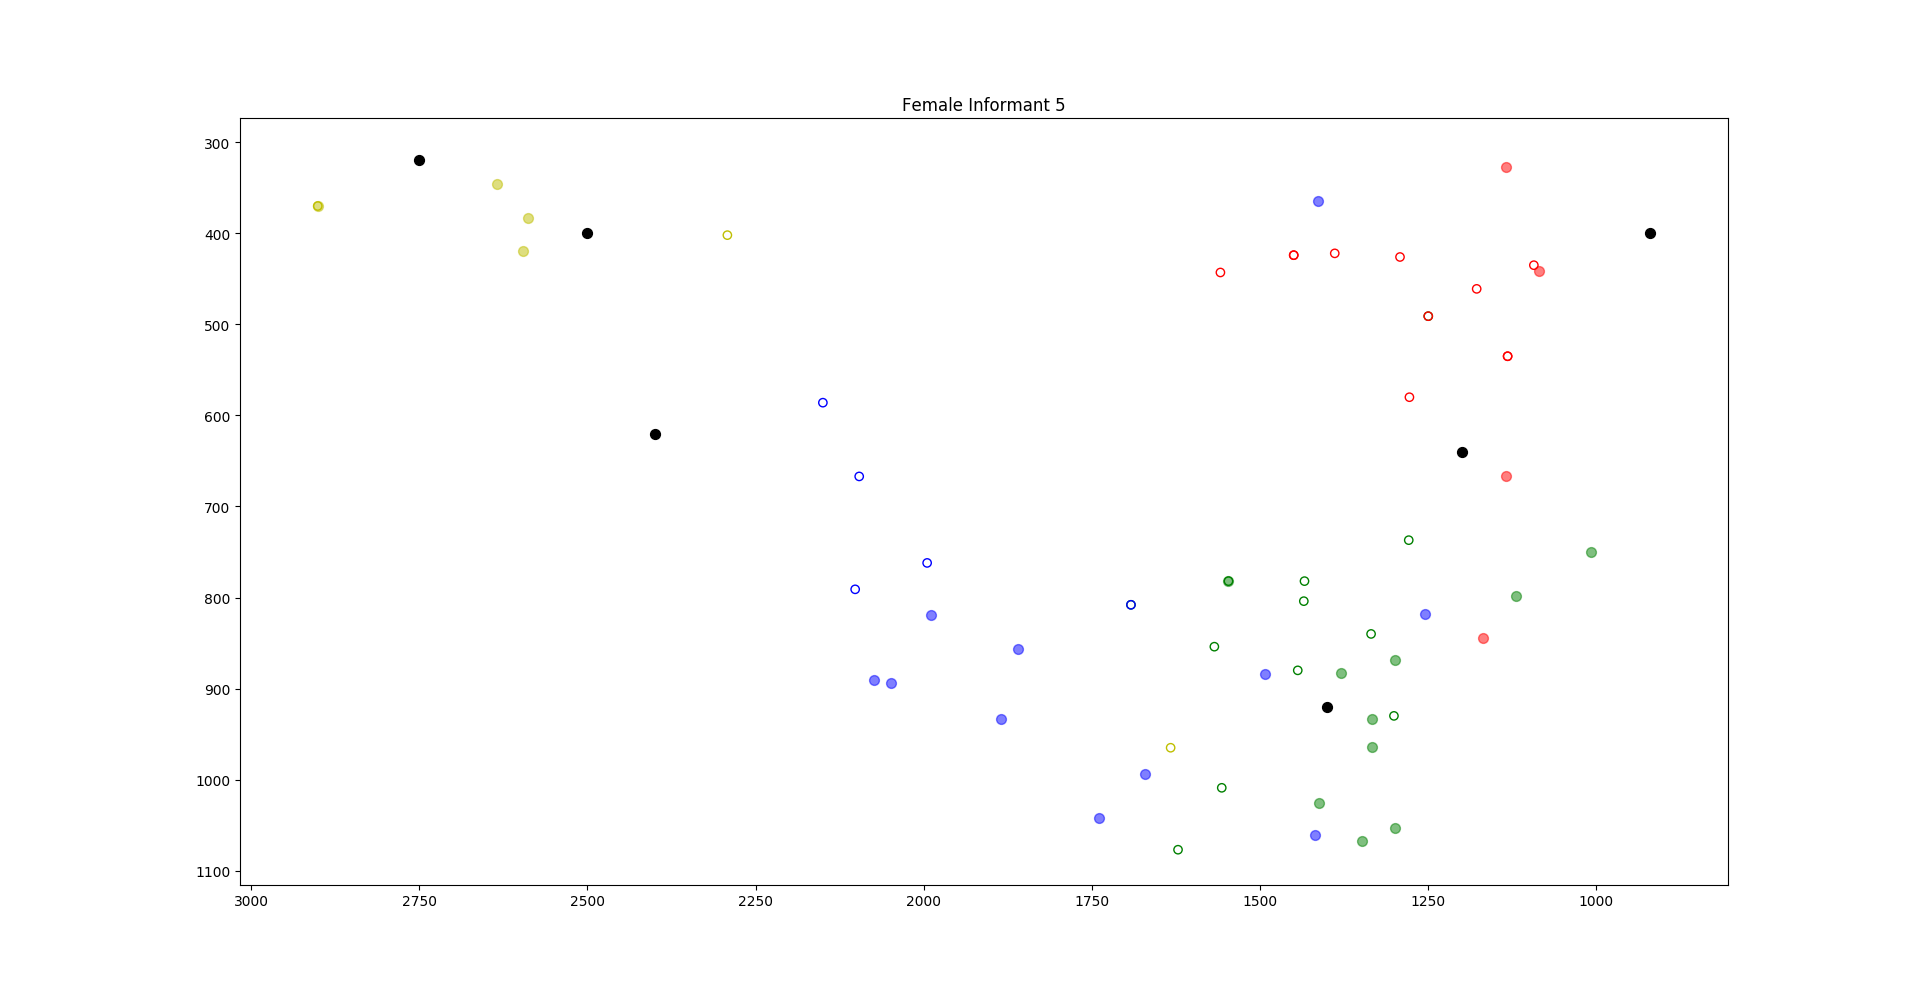
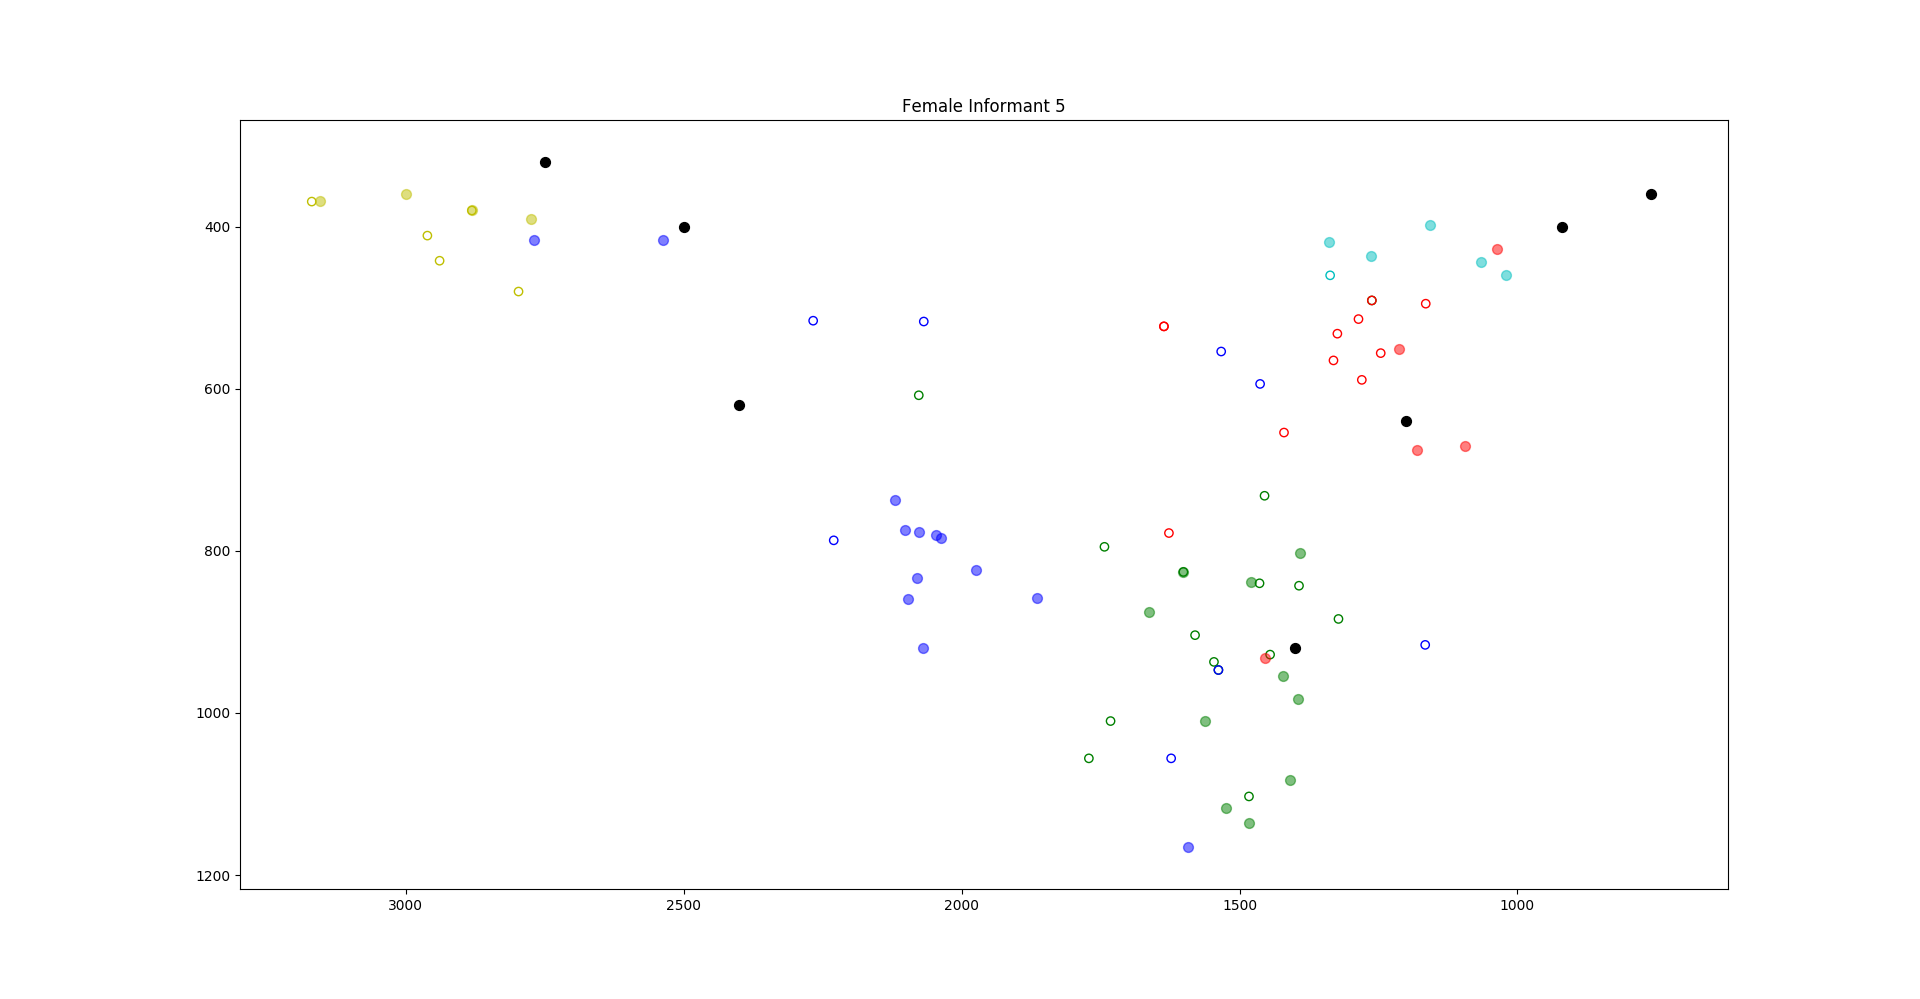
Add files via upload

diff --git a/Formants/Plots/finf3.py b/Formants/Plots/finf3.py
@@ -1,0 +1,67 @@
+from matplotlib import pyplot as plt
+import pandas as pd
+import numpy as np
+
+
+inf = pd.read_excel('finf3.xlsx')
+### This to make sure the file is correctly read ###
+print(inf)
+
+xo = [inf.ix[1, 'F1'], inf.ix[24, 'F1'], inf.ix[67, 'F1'], inf.ix[75, 'F1'], inf.ix[78, 'F1']]
+yo = [inf.ix[1, 'F2'], inf.ix[24, 'F2'], inf.ix[67, 'F2'], inf.ix[75, 'F2'], inf.ix[78, 'F2']]
+
+xa = [inf.ix[5, 'F1'], inf.ix[29, 'F1'], inf.ix[33, 'F1'], inf.ix[36, 'F1'], inf.ix[42, 'F1'], inf.ix[51, 'F1'], inf.ix[59, 'F1'], inf.ix[62, 'F1'], inf.ix[65, 'F1'], inf.ix[72, 'F1']]
+ya = [inf.ix[5, 'F2'], inf.ix[29, 'F2'], inf.ix[33, 'F2'], inf.ix[36, 'F2'], inf.ix[42, 'F2'], inf.ix[51, 'F2'], inf.ix[59, 'F2'], inf.ix[62, 'F2'], inf.ix[65, 'F2'], inf.ix[72, 'F2']]
+
+xe = [inf.ix[80, 'F1'], inf.ix[3, 'F1'], inf.ix[7, 'F1'], inf.ix[10, 'F1'], inf.ix[13, 'F1'], inf.ix[19, 'F1'], inf.ix[22, 'F1'], inf.ix[38, 'F1'], inf.ix[40, 'F1'], inf.ix[45, 'F1'], inf.ix[48, 'F1'], inf.ix[55, 'F1'], inf.ix[57, 'F1']]
+ye = [inf.ix[80, 'F2'], inf.ix[3, 'F2'], inf.ix[7, 'F2'], inf.ix[10, 'F2'], inf.ix[13, 'F2'], inf.ix[19, 'F2'], inf.ix[22, 'F2'], inf.ix[38, 'F2'], inf.ix[40, 'F2'], inf.ix[45, 'F2'], inf.ix[48, 'F2'], inf.ix[55, 'F2'], inf.ix[57, 'F2']]
+
+xi = [inf.ix[15, 'F1'], inf.ix[17, 'F1'], inf.ix[27, 'F1'], inf.ix[53, 'F1']]
+yi = [inf.ix[15, 'F2'], inf.ix[17, 'F2'], inf.ix[27, 'F2'], inf.ix[53, 'F2']]
+
+xu = [inf.ix[105, 'F1'], inf.ix[107, 'F1'], inf.ix[110, 'F1'], inf.ix[101, 'F1'], inf.ix[94, 'F1']]
+yu = [inf.ix[105, 'F2'], inf.ix[107, 'F2'], inf.ix[110, 'F2'], inf.ix[101, 'F2'], inf.ix[94, 'F2']]
+
+xs = [280, 360, 560, 800, 520, 420]
+
+ys = [2240, 2040, 1840, 1280, 900, 800]
+
+xs2 = [320, 400, 620, 920, 640, 400, 360]
+ys2 = [2750, 2500, 2400, 1400, 1200, 920, 760]
+
+
+plot1 = plt.gca()
+
+xas = [inf.ix[84, 'F1'], inf.ix[26, 'F1'], inf.ix[6, 'F1'], inf.ix[8, 'F1'], inf.ix[16, 'F1'], inf.ix[18, 'F1'], inf.ix[25, 'F1'], inf.ix[28, 'F1'], inf.ix[54, 'F1'], inf.ix[58, 'F1'], inf.ix[69, 'F1'], inf.ix[72, 'F1'], inf.ix[50, 'F1'], inf.ix[41, 'F1'], inf.ix[32, 'F1']]
+yas = [inf.ix[84, 'F2'], inf.ix[26, 'F2'], inf.ix[6, 'F2'], inf.ix[8, 'F2'], inf.ix[16, 'F2'], inf.ix[18, 'F2'], inf.ix[25, 'F2'], inf.ix[28, 'F2'], inf.ix[54, 'F2'], inf.ix[58, 'F2'], inf.ix[69, 'F2'], inf.ix[72, 'F2'], inf.ix[50, 'F2'], inf.ix[41, 'F2'], inf.ix[32, 'F2']]
+
+xes = [inf.ix[76, 'F1'], inf.ix[4, 'F1'], inf.ix[79, 'F1'], inf.ix[16, 'F1'], inf.ix[31, 'F1'], inf.ix[43, 'F1'], inf.ix[56, 'F1'], inf.ix[71, 'F1']]
+yes = [inf.ix[76, 'F2'], inf.ix[4, 'F2'], inf.ix[79, 'F2'], inf.ix[16, 'F2'], inf.ix[31, 'F2'], inf.ix[43, 'F2'], inf.ix[56, 'F2'], inf.ix[71, 'F2']]
+
+xos = [inf.ix[66, 'F1'], inf.ix[64, 'F1'], inf.ix[63, 'F1'], inf.ix[11, 'F1'], inf.ix[14, 'F1'], inf.ix[18, 'F1'], inf.ix[20, 'F1'], inf.ix[23, 'F1'], inf.ix[61, 'F1'], inf.ix[64, 'F1'], inf.ix[66, 'F1'], inf.ix[68, 'F1'], inf.ix[73, 'F1']]
+yos = [inf.ix[66, 'F2'], inf.ix[64, 'F2'], inf.ix[63, 'F2'], inf.ix[11, 'F2'], inf.ix[14, 'F2'], inf.ix[18, 'F2'], inf.ix[20, 'F2'], inf.ix[23, 'F2'], inf.ix[61, 'F2'], inf.ix[64, 'F2'], inf.ix[66, 'F2'], inf.ix[68, 'F2'], inf.ix[73, 'F2']]
+
+xis = [inf.ix[53, 'F1'], inf.ix[9, 'F1'], inf.ix[12, 'F1'], inf.ix[21, 'F1'], inf.ix[30, 'F1'], inf.ix[47, 'F1']]
+yis = [inf.ix[53, 'F2'], inf.ix[9, 'F2'], inf.ix[12, 'F2'], inf.ix[21, 'F2'], inf.ix[30, 'F2'], inf.ix[47, 'F2']]
+
+xus = [inf.ix[92, 'F1']]
+yus = [inf.ix[92, 'F2']]
+
+plot1.scatter(yas, xas, facecolor='none', edgecolors='g')
+plot1.scatter(yes, xes, facecolor='none', edgecolors='b')
+plot1.scatter(yis, xis, facecolor='none', edgecolors='y')
+plot1.scatter(yos, xos, facecolor='none', edgecolors='r')
+plot1.scatter(yus, xus, facecolor='none', edgecolors='c')
+
+plot1.scatter(ya, xa, s=50, color='g', alpha=0.5)
+plot1.scatter(ye, xe, s=50, color='b', alpha=0.5)
+plot1.scatter(yi, xi, s=50, color='y', alpha=0.5)
+plot1.scatter(yo, xo, s=50, color='r', alpha=0.5)
+plot1.scatter(yu, xu, s=50, color='c', alpha=0.5)
+
+
+plot1.scatter(ys2, xs2, s=50, color='k')
+plt.title('Female Informant 5')
+plot1.invert_yaxis()
+plot1.invert_xaxis()
+plt.show()
